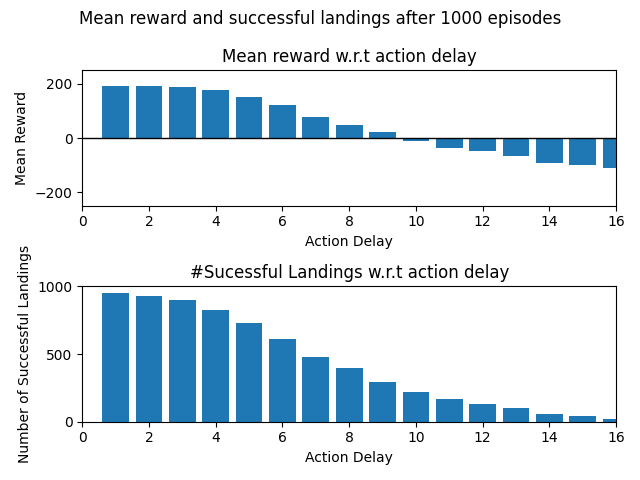
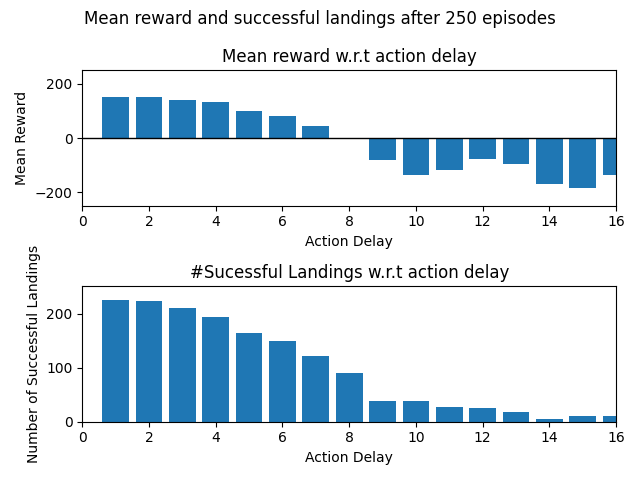
Dev: Introduced time delays and randomized start location

diff --git a/scripts/test.py b/scripts/test.py
@@ -1,0 +1,126 @@
+import gym
+import torch
+import numpy as np
+from train import QNetwork
+import matplotlib.pyplot as plt
+
+
+def main():
+
+    # load environment
+    env = gym.make('LunarLander-v2')
+
+    # load our trained q-network
+    qnetwork = QNetwork(state_size=8, action_size=4, seed=1)
+    qnetwork.load_state_dict(torch.load("dqn.pth"))
+    qnetwork.eval()
+    softmax = torch.nn.Softmax(dim=1)
+
+    # we'll rollout over N episodes
+    episodes = 250
+
+    ''' Calculate Rewards over multiple delays
+        The action delay is calculated as timestep % delay_factor
+    '''
+    t_delay = range(1,17)
+    scores = [None] * len(t_delay)
+    landings = [None] * len(t_delay)
+
+    # Trajectory Plotting
+    f1, axs = plt.subplots(nrows=2, ncols=int(len(t_delay)/4), figsize=(20, 15))
+    f1.suptitle('Sample trajectories w.r.t action delay')
+    p_row = 0
+    p_col = 0
+
+    for i in range(len(t_delay)):
+        score = 0
+        landing = 0
+        print("Starting lunar lander with action delay: ", t_delay[i])        
+        for episode in range(episodes):
+            if (episode%50 == 0):
+                print("On episode: ", episode)
+            # reset to start
+            state = env.reset()
+            state_x = []
+            state_y = []
+            episode_reward = 0
+            for t in range(1000):
+
+                if (t%t_delay[i] == 0) :
+                # get the best action according to q-network
+                    with torch.no_grad():
+                        state_t = torch.from_numpy(state).float().unsqueeze(0)
+                        action_values = qnetwork(state_t)
+                        action_values = softmax(action_values).cpu().data.numpy()[0]
+                    action = np.argmax(action_values)
+                    #print(action)
+
+                # apply that action and take a step
+                #env.render()              # can always toggle visualization
+                next_state, reward, done, info = env.step(action)
+                state = next_state
+                score += reward
+                episode_reward += reward
+                state_x.append(state[0])
+                state_y.append(state[1]) 
+
+                # Plot only half of the action delays
+                if (episode < 15) and (i%2 == 0):
+                    axs[p_row,p_col].plot(state_x, state_y)
+                    axs[p_row,p_col].axis([-0.75, 0.75, 0, 1.6])
+                    axs[p_row,p_col].text(0,1.55,'Action Delay: ' + str(t_delay[i]),
+                                            horizontalalignment='center')
+                    #axs[0].set(xlabel='Action Delay', ylabel='Mean Reward')
+                    #axs[0].axhline(lw=1, color='black')
+                if done:
+                    if (episode_reward > 100):
+                        landing += 1
+                    break
+
+        scores[i] = score/episodes
+        landings[i] = landing
+        print("Mean reward for completed iteration: ", scores[i])
+
+        if(i%2 == 0):
+            if (p_col < (len(t_delay)/4)-1):
+                p_col += 1
+            else:
+                p_col = 0
+                p_row += 1
+
+        #print(score)
+        #plt.plot(state_x,state_y)
+        #plt.axis([-0.75, 0.75, 0, 1.6])
+        
+
+    # give some idea of how things went
+    env.close()
+    #print(scores)
+    #print("mean score: ", np.mean(np.array(scores)))
+    #print("std score: ", np.std(np.array(scores)))
+
+    # Plots for rewards and landings
+    f2, axs = plt.subplots(2)
+    f2.suptitle('Mean reward and successful landings after ' + str(episodes) + ' episodes')
+    axs[0].bar(t_delay, scores)
+    axs[0].axis([0, max(t_delay), -250, 250])
+    axs[0].set_title('Mean reward w.r.t action delay')
+    axs[0].set(xlabel='Action Delay', ylabel='Mean Reward')
+    axs[0].axhline(lw=1, color='black')
+
+
+    axs[1].bar(t_delay, landings)
+    axs[1].axis([0, max(t_delay), 0, episodes+1])
+    axs[1].set_title('#Sucessful Landings w.r.t action delay')
+    axs[1].set(xlabel='Action Delay', ylabel='Number of Successful Landings')
+
+
+    f1.tight_layout()
+    f2.tight_layout()
+    f1.savefig('plots/trajectories.png')
+    f2.savefig('plots/mean_reward.png')
+    #plt.show()
+
+
+if __name__ == "__main__":
+    main()

diff --git a/scripts/irl.py b/scripts/irl.py
@@ -1,9 +1,9 @@
+# Script to run Inverse Reinforcement Learning for Lunar Lander
 import gym
 import torch
 import numpy as np
 from train import QNetwork
 import matplotlib.pyplot as plt
-
 
 def main():
 
@@ -16,8 +16,8 @@ def main():
     qnetwork.eval()
     softmax = torch.nn.Softmax(dim=1)
 
-    # we'll rollout over N episodes
-    episodes = 1000
+    # we'll rollout over N demonstrations
+    demos = 5
 
     ''' Calculate Rewards over multiple delays
         The action delay is calculated as timestep % delay_factor
@@ -53,6 +53,7 @@ def main():
                         action_values = qnetwork(state_t)
                         action_values = softmax(action_values).cpu().data.numpy()[0]
                     action = np.argmax(action_values)
+                    #print(action)
 
                 # apply that action and take a step
                 #env.render()              # can always toggle visualization
@@ -64,7 +65,7 @@ def main():
                 state_y.append(state[1]) 
 
                 # Plot only half of the action delays
-                if (episode < 5) and (i%2 == 0):
+                if (episode < 15) and (i%2 == 0):
                     axs[p_row,p_col].plot(state_x, state_y)
                     axs[p_row,p_col].axis([-0.75, 0.75, 0, 1.6])
                     axs[p_row,p_col].text(0,1.55,'Action Delay: ' + str(t_delay[i]),

diff --git a/scripts/train.py b/scripts/train.py
@@ -206,7 +206,8 @@ def train(agent,
         state = env.reset()
         score = 0
         for t in range(max_t):
-            action = agent.act(state, eps)
+            if(t%6 == 0):
+                action = agent.act(state, eps)
             # env.render()                # toggle this line to visualize training
             next_state, reward, done, _ = env.step(action)
             agent.step(state, action, reward, next_state, done)
@@ -229,10 +230,10 @@ if __name__ == "__main__":
     env = gym.make("LunarLander-v2")
     env.seed(0)
     agent = Agent(state_size=8, action_size=4, seed=0)
-    scores = train(agent, savename="dqn.pth")
+    scores = train(agent, savename="dqn_randx.pth")
 
     # load the weights from file
-    agent.qnetwork_local.load_state_dict(torch.load('dqn.pth'))
+    agent.qnetwork_local.load_state_dict(torch.load('dqn_randx.pth'))
 
     for i in range(3):
         state = env.reset()
